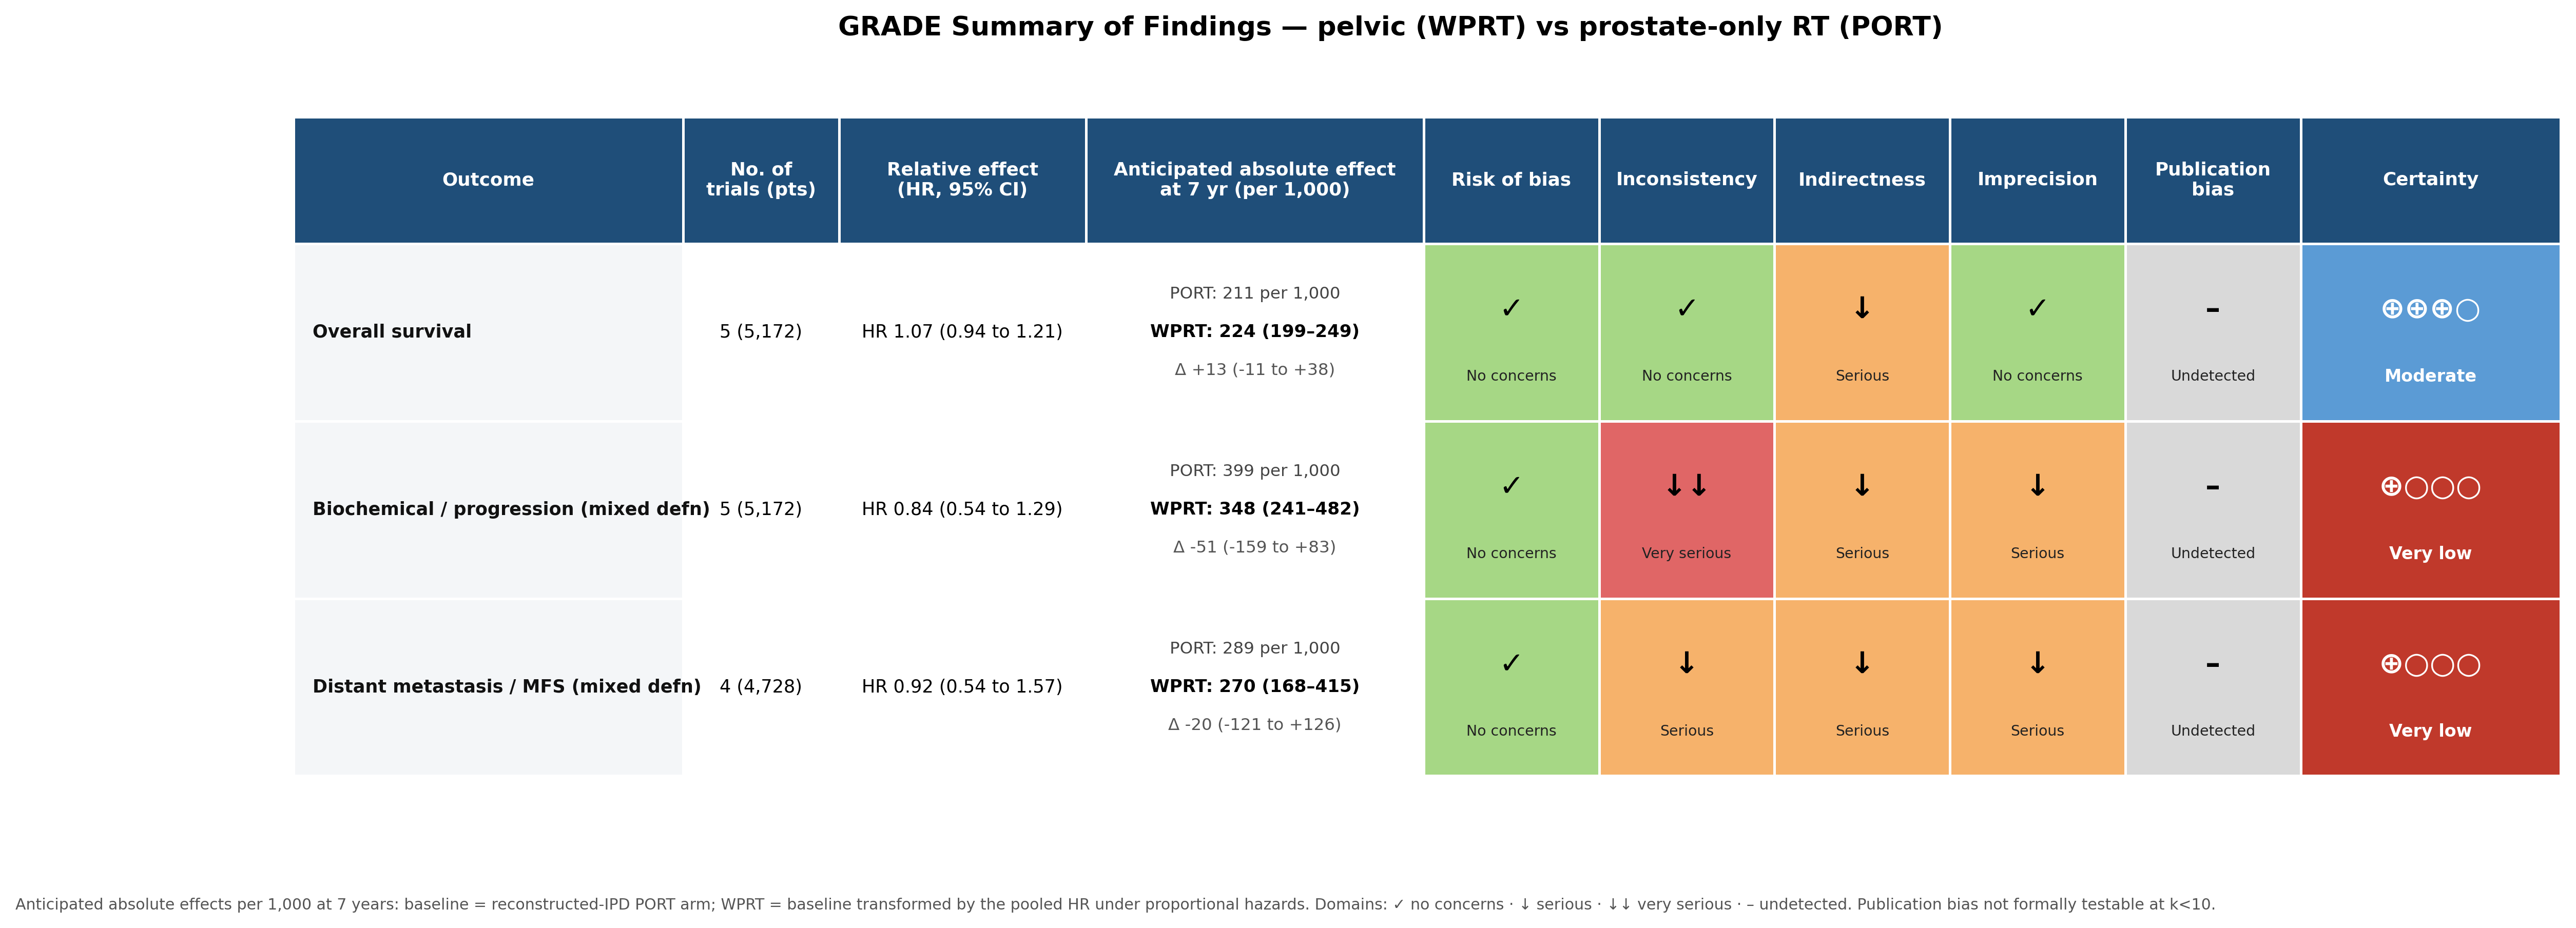
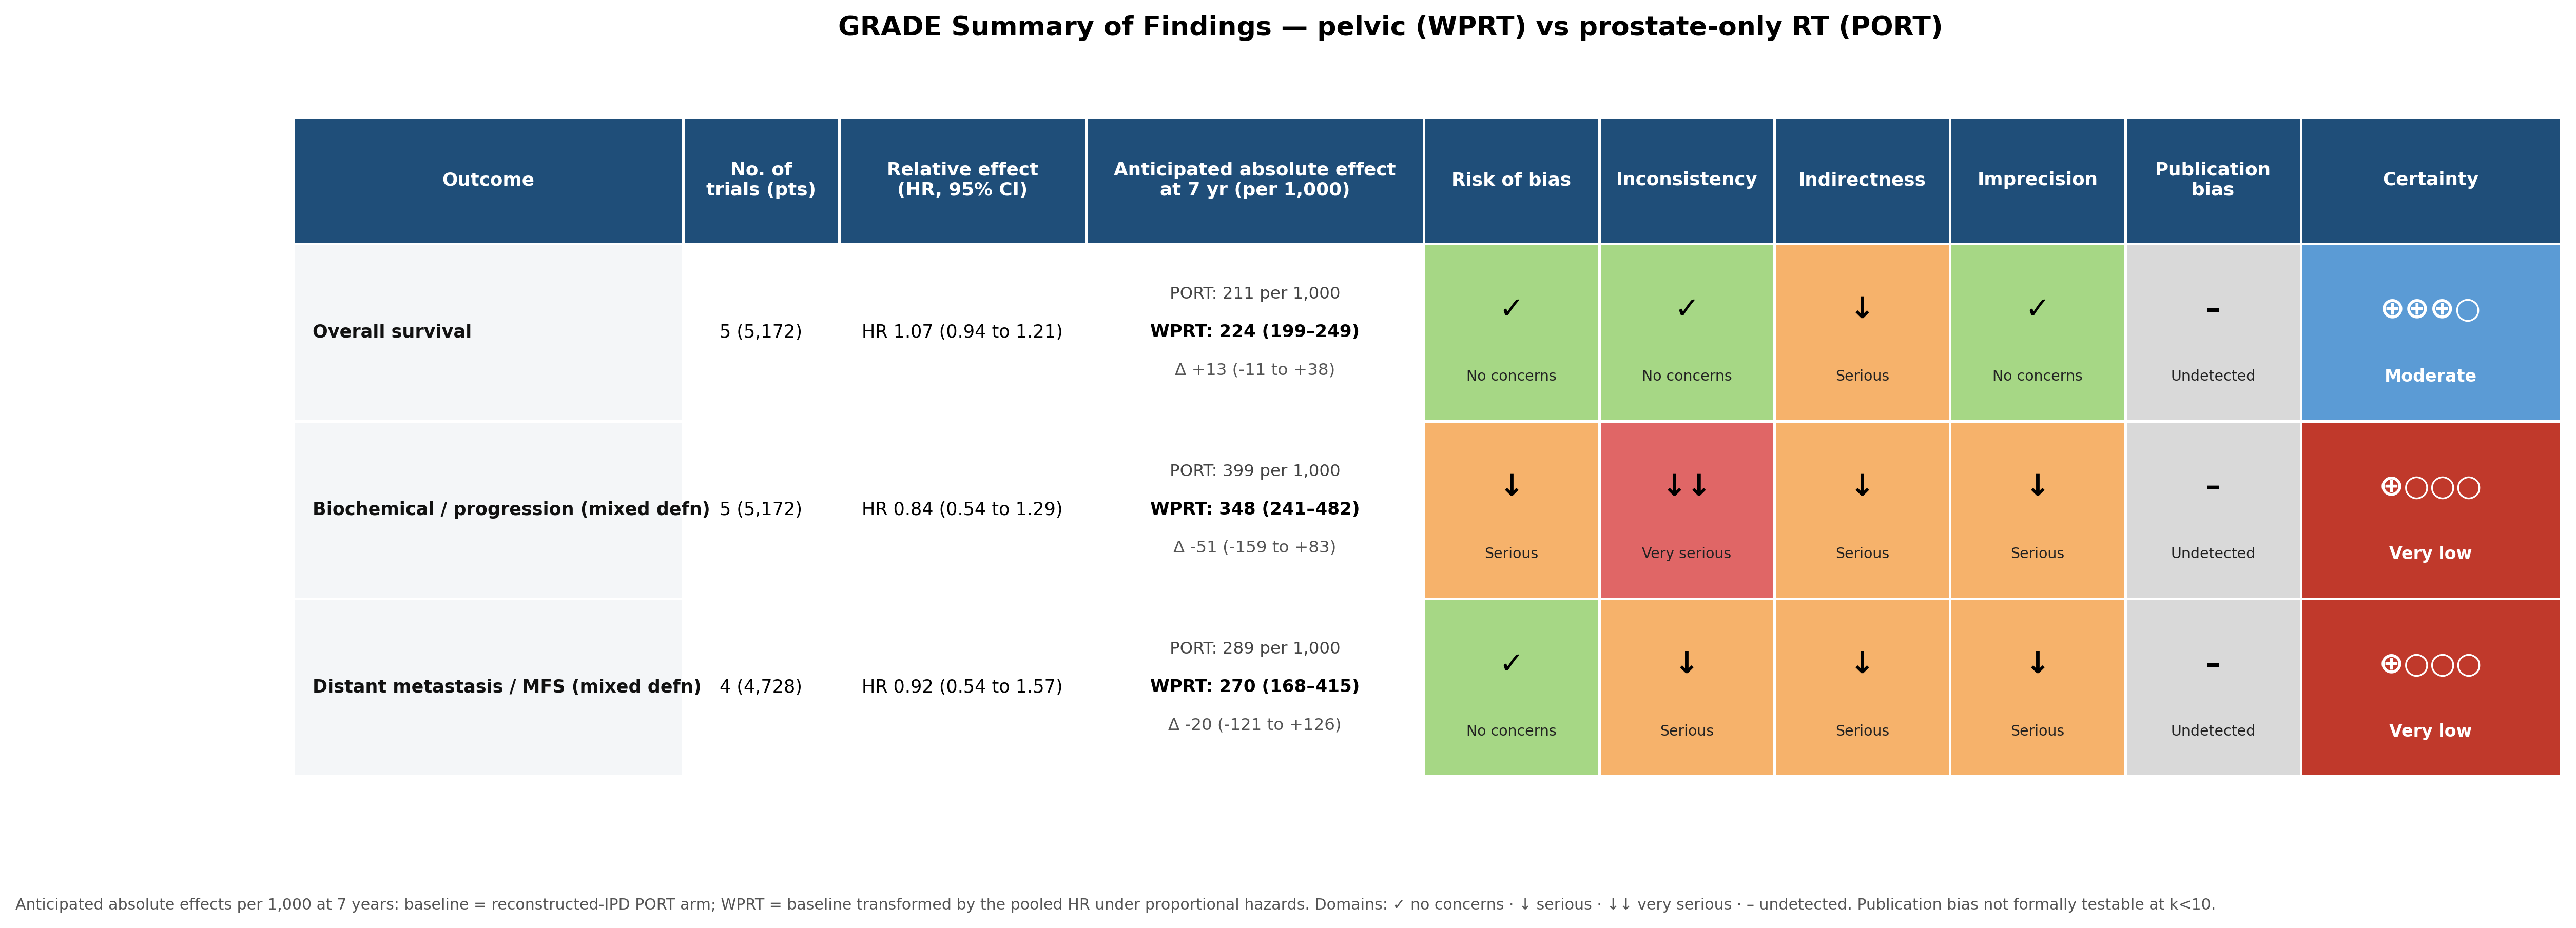
GRADE: downgrade biochemical RoB domain; drop duplicate RoB table; rename comparability dashboard
- grade_assessment.py: biochemical/progression risk-of-bias domain set to
  Serious (RTOG 9413 rated High for that outcome), so the SoF risk-of-bias
  column is consistent with the per-outcome RoB 2 assessment. Certainty
  unchanged (Very low).
- Remove the per-trial RoB traffic-light/CSV that grade_assessment.py emitted:
  it diverged from the canonical per-outcome assessment in risk_of_bias/.
  Deletes analysis/figures/rob2_traffic_light.{pdf,png} and rob2_summary.csv.
- transitivity_dashboard.py: retitle to 'Cross-trial clinical-comparability
  dashboard' (transitivity is an NMA concept; this is a pairwise MA).

Changed region(s): [[0.5284, 0.4334, 0.6216, 0.6501]]

diff --git a/analysis/grade_assessment.py b/analysis/grade_assessment.py
@@ -6,14 +6,14 @@ computes anticipated absolute effects per 1,000 at 7 years (baseline from the
 reconstructed pseudo-IPD PORT arm; intervention risk by applying the pooled HR
 under proportional-hazards), and writes a Summary-of-Findings table.
 
-Also produces a RoB2 traffic-light table for the 5 trials (5 domains + overall).
+The canonical RoB 2 assessment (per-outcome) lives in risk_of_bias/rob2_assessment.py;
+this script no longer emits a RoB table, to avoid a divergent duplicate.
 
 Notes
 -----
 - HR used in absolute effects is the aggregate-MA pooled HR (the one shown in the
   Effect column), applied to baseline risk derived from the reconstructed IPD.
 - Publication bias is marked 'undetected' because k<10 invalidates Egger/funnel.
-- RoB2 judgements below are the reviewer's working draft — adjust per protocol.
 """
 import csv
 import os
@@ -21,7 +21,7 @@ import numpy as np
 import pandas as pd
 from lifelines import KaplanMeierFitter
 import matplotlib.pyplot as plt
-from matplotlib.patches import Rectangle, Circle
+from matplotlib.patches import Rectangle
 
 HERE = os.path.dirname(os.path.abspath(__file__))
 OUT = os.path.join(HERE, 'figures')
@@ -64,7 +64,7 @@ OUTCOMES = {
         hr=0.84, lo=0.54, hi=1.29,
         effect='HR 0.84 (0.54 to 1.29)',
         ipd_port=['POP-RT_BFFS_ipd.csv', 'GETUG-01_EFS_ipd.csv', 'PEACE-2_BPFS_ipd.csv'],
-        rob=('no', 'Phase-3 RCTs; RoB2 Low / Some concerns (see RoB2 table).'),
+        rob=('serious', 'RTOG 9413 rated High risk of bias for this outcome (significant field × ADT-timing factorial interaction makes the collapsed WPRT-vs-PORT contrast uninterpretable as a single effect); the other four trials Some concerns (see RoB2 table).'),
         inconsistency=('very_serious', 'I²=69%, τ²=0.03; POP-RT (HR 0.23) opposes GETUG-01 (HR 1.05) and others. Pool dominated by one outlier; excluding POP-RT collapses heterogeneity to 0.'),
         indirectness=('serious', 'Outcome definitions differ (BFFS Phoenix / EFS / cPFS / bPFS / BCR); population/era heterogeneity (PSMA staging only in POP-RT) plausibly modifies the effect.'),
         imprecision=('serious', 'CI 0.54–1.29 wide; spans appreciable benefit (HR<0.85), no effect, and clinically meaningful harm.'),
@@ -108,59 +108,6 @@ def absolute_per_1000(o, t):
                 diff=(r_i - r_c), diff_lo=(r_i_lo - r_c), diff_hi=(r_i_hi - r_c))
 
 
-# ── RoB2 per-trial (reviewer working draft) ──────────────────────────────────
-ROB_DOMAINS = ['D1: Randomization', 'D2: Deviations from intended\nintervention',
-               'D3: Missing outcome\ndata', 'D4: Measurement of\nthe outcome',
-               'D5: Selection of the\nreported result', 'Overall']
-ROB_KEY = ['D1', 'D2', 'D3', 'D4', 'D5', 'Overall']
-ROB_LEVEL = {'low': ('Low', '#A6D785', '+'),
-             'some': ('Some concerns', '#F6B26B', '!'),
-             'high': ('High', '#E06666', '−')}
-
-TRIALS_ROB = {
-    'RTOG 9413 (Roach 2018, Lancet Oncol)': {
-        'D1': ('low', 'Computer-generated allocation, 2×2 stratified by risk; concealment described.'),
-        'D2': ('some', 'Open-label (RT cannot be blinded). Field×hormone-timing interaction emphasized on update is recognised as the principal report but post-hoc relative to original 2003 design.'),
-        'D3': ('low', '>90% follow-up at long-term update; minimal missingness.'),
-        'D4': ('low', 'Death/PFS objectively ascertained.'),
-        'D5': ('some', 'Multiple long-term updates (2003, 2007, 2013, 2018) with shifting endpoint emphasis.'),
-        'Overall': 'some',
-    },
-    'GETUG-01 (Pommier 2016, IJROBP)': {
-        'D1': ('low', 'Central randomization, stratified by risk group.'),
-        'D2': ('some', 'Open-label RT trial.'),
-        'D3': ('low', '15-year follow-up; vital status complete.'),
-        'D4': ('low', 'OS objective; EFS centrally adjudicated.'),
-        'D5': ('low', 'Long-term endpoints pre-specified; consistent reporting across updates.'),
-        'Overall': 'low',
-    },
-    'POP-RT (Murthy 2021, JCO)': {
-        'D1': ('low', 'Central allocation, stratified by Roach >35%; concealment ensured.'),
-        'D2': ('some', 'Open-label. Single-centre delivery limits generalisability of technique.'),
-        'D3': ('low', 'Median follow-up 68 mo; <5% loss.'),
-        'D4': ('low', 'BFFS adjudicated, OS objective.'),
-        'D5': ('low', 'Primary and key secondary outcomes pre-registered (NCT02302105).'),
-        'Overall': 'low',
-    },
-    'PEACE-2 (Blanchard ESTRO 2026 — congress slides)': {
-        'D1': ('low', '2×2 factorial (pelvic RT × cabazitaxel), central randomization.'),
-        'D2': ('some', 'Open-label; cabazitaxel co-intervention may dilute/mask pelvic-RT effect estimate even with factorial analysis.'),
-        'D3': ('some', 'Full per-protocol numbers and missing-data handling not yet in a peer-reviewed full report.'),
-        'D4': ('low', 'cPFS, bPFS, MFS, OS pre-specified.'),
-        'D5': ('some', 'Pre-publication: only the pelvic-RT randomization is publicly reported; full SAP and pre-specified subgroups await full publication.'),
-        'Overall': 'some',
-    },
-    'RTOG 0924 (Roach ASTRO 2025 — congress slides)': {
-        'D1': ('low', 'NRG central randomization, stratified.'),
-        'D2': ('some', 'Open-label.'),
-        'D3': ('some', '139 of 514 deaths still being adjudicated for cause; affects PCSM but not OS.'),
-        'D4': ('low', 'OS objective.'),
-        'D5': ('some', 'Pre-publication slide release; full report and pre-specified secondary endpoints pending.'),
-        'Overall': 'some',
-    },
-}
-
-
 # ── console + CSV ────────────────────────────────────────────────────────────
 def report():
     rows = [['outcome', 'k', 'n', 'effect',
@@ -193,18 +140,6 @@ def report():
     with open(path, 'w', newline='') as fh:
         csv.writer(fh).writerows(rows)
     print(f'\nSaved: {path}')
-
-    # RoB2 CSV
-    rob_rows = [['trial', *ROB_KEY[:-1], 'Overall', 'D1_reason', 'D2_reason',
-                 'D3_reason', 'D4_reason', 'D5_reason']]
-    for tr, r in TRIALS_ROB.items():
-        rob_rows.append([tr, ROB_LEVEL[r['D1'][0]][0], ROB_LEVEL[r['D2'][0]][0],
-                         ROB_LEVEL[r['D3'][0]][0], ROB_LEVEL[r['D4'][0]][0],
-                         ROB_LEVEL[r['D5'][0]][0], ROB_LEVEL[r['Overall']][0],
-                         r['D1'][1], r['D2'][1], r['D3'][1], r['D4'][1], r['D5'][1]])
-    with open(os.path.join(OUT, 'rob2_summary.csv'), 'w', newline='') as fh:
-        csv.writer(fh).writerows(rob_rows)
-    print(f'Saved: {os.path.join(OUT, "rob2_summary.csv")}')
 
 
 # ── Summary-of-Findings figure (with absolute effects) ───────────────────────
@@ -292,64 +227,6 @@ def sof_figure():
     print(f'Saved: grade_sof_table.{{png,pdf}}')
 
 
-# ── RoB2 traffic-light figure ────────────────────────────────────────────────
-def rob2_figure():
-    trials = list(TRIALS_ROB)
-    n_t = len(trials); n_d = len(ROB_KEY)
-    cell_w = [3.6, *([1.35] * 5), 1.5]
-    total_w = sum(cell_w)
-    row_h = 1.0
-    fig_w = 14.5; fig_h = 1.8 + row_h * n_t
-    fig, ax = plt.subplots(figsize=(fig_w, fig_h))
-    ax.set_xlim(0, total_w); ax.set_ylim(0, n_t * row_h + 1.4)
-    ax.axis('off')
-
-    # Header
-    headers = ['Trial', *ROB_DOMAINS]
-    x = 0
-    for h, w in zip(headers, cell_w):
-        ax.add_patch(Rectangle((x, n_t * row_h + 0.4), w, 1.0,
-                               facecolor='#1F4E79', edgecolor='white', lw=1.2))
-        ax.text(x + w / 2, n_t * row_h + 0.9, h, ha='center', va='center',
-                fontsize=8.2, fontweight='bold', color='white')
-        x += w
-
-    for ri, tr in enumerate(trials):
-        y = (n_t - ri - 1) * row_h + 0.4
-        x = 0
-        ax.add_patch(Rectangle((x, y), cell_w[0], row_h, facecolor='#F4F6F8', edgecolor='white', lw=1.2))
-        ax.text(x + 0.12, y + row_h / 2, tr, ha='left', va='center', fontsize=8.2, fontweight='bold', color='#111')
-        x += cell_w[0]
-        for di, key in enumerate(ROB_KEY[:-1]):
-            lvl = TRIALS_ROB[tr][key][0]
-            label, color, sym = ROB_LEVEL[lvl]
-            ax.add_patch(Rectangle((x, y), cell_w[1 + di], row_h, facecolor='white', edgecolor='white', lw=1.2))
-            ax.add_patch(Circle((x + cell_w[1 + di] / 2, y + row_h / 2), 0.28,
-                                facecolor=color, edgecolor='black', lw=0.8))
-            ax.text(x + cell_w[1 + di] / 2, y + row_h / 2 + 0.005, sym,
-                    ha='center', va='center', fontsize=12, fontweight='bold', color='black')
-            x += cell_w[1 + di]
-        ov = TRIALS_ROB[tr]['Overall']
-        label, color, sym = ROB_LEVEL[ov]
-        ax.add_patch(Rectangle((x, y), cell_w[-1], row_h, facecolor=color, edgecolor='white', lw=1.2))
-        ax.text(x + cell_w[-1] / 2, y + row_h / 2 + 0.06, sym, ha='center', va='center',
-                fontsize=14, fontweight='bold', color='black')
-        ax.text(x + cell_w[-1] / 2, y + row_h / 2 - 0.28, label, ha='center', va='center',
-                fontsize=7.4, color='black', fontweight='bold')
-
-    fig.suptitle('Risk of bias (RoB 2) — per-trial judgement',
-                 y=0.99, fontsize=12.5, fontweight='bold')
-    fig.text(0.03, 0.02,
-             'Symbols: + Low risk · ! Some concerns · − High risk. Reviewer working draft based on the available '
-             'publications and congress reports; revise after the full reports of PEACE-2 and RTOG 0924 appear.',
-             fontsize=7.2, color='#555')
-    for ext in ('png', 'pdf'):
-        fig.savefig(os.path.join(OUT, f'rob2_traffic_light.{ext}'), dpi=300, bbox_inches='tight')
-    plt.close(fig)
-    print(f'Saved: rob2_traffic_light.{{png,pdf}}')
-
-
 if __name__ == '__main__':
     report()
     sof_figure()
-    rob2_figure()

diff --git a/analysis/transitivity_dashboard.py b/analysis/transitivity_dashboard.py
@@ -123,7 +123,7 @@ ax_c.spines[['top', 'right']].set_visible(False)
 ax_c.xaxis.grid(True, alpha=0.25, linestyle='--'); ax_c.set_axisbelow(True)
 
 # title + shared legend + footnote
-fig.suptitle('Cross-trial comparability (transitivity) dashboard — WPRT vs PORT in localized prostate cancer',
+fig.suptitle('Cross-trial clinical-comparability dashboard — WPRT vs PORT in localized prostate cancer',
              fontsize=15, fontweight='bold', y=0.985)
 fig.legend(handles=[Line2D([0], [0], color=COLORS[j], marker='o', lw=2.5, markersize=6, label=TRIALS[j])
                     for j in range(len(TRIALS))],